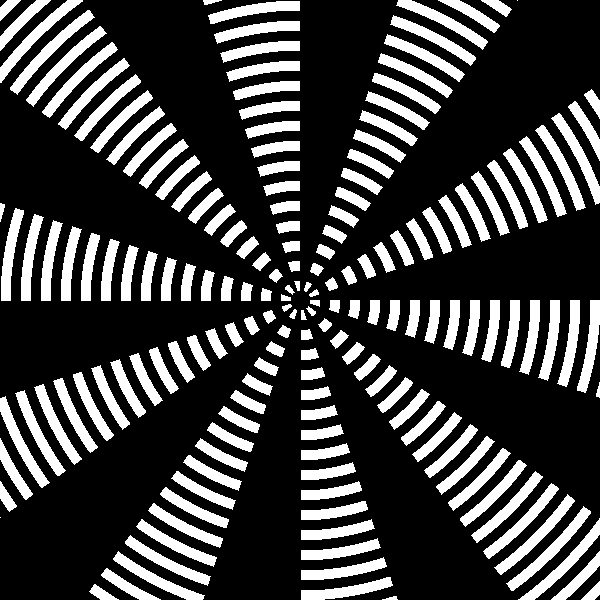
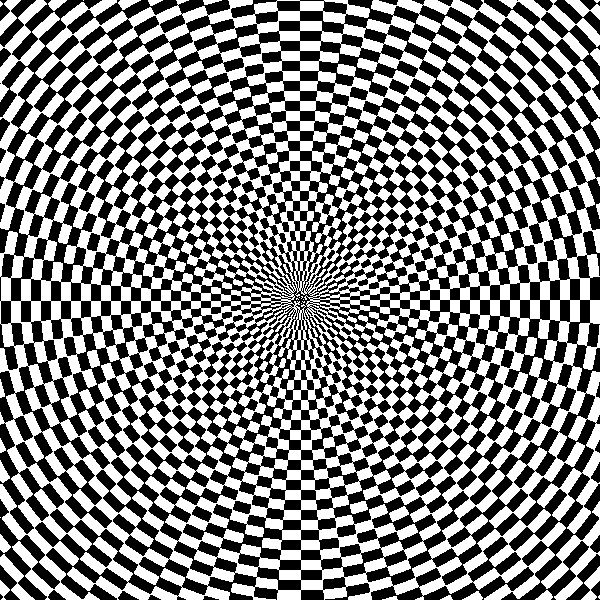
polarchecker

diff --git a/README.md b/README.md
@@ -1,4 +1,9 @@
 # Functional Images
-Chapter 7 of The Fun of Programming by Jeremy Gibbons and Oege de
-Moor.
-![checkers](test.png)
+
+<img align="right" src="test.png" width="300" />
+
+Chapter 7 of The Fun of Programming by Jeremy Gibbons and Oege de Moor.
+
+I haven't found a way to generate animated gifs in F# using mono (mono does not have .Net WPF). Below is an illustration of 60 images generated by the program.
+
+<img src="polarchecker.gif" height="140" hspace="50"/>[checkers](polarchecker.gif)
